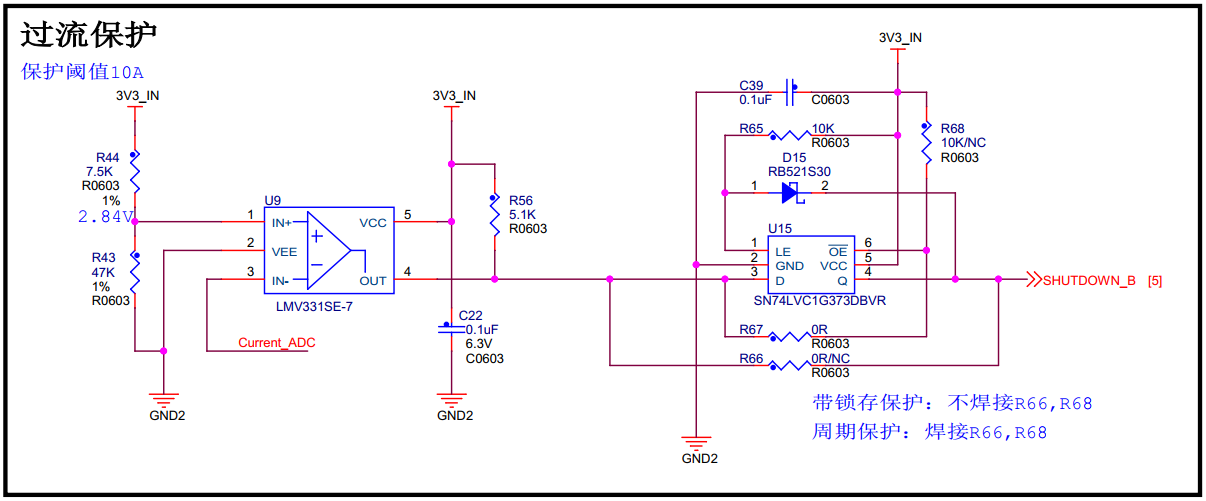
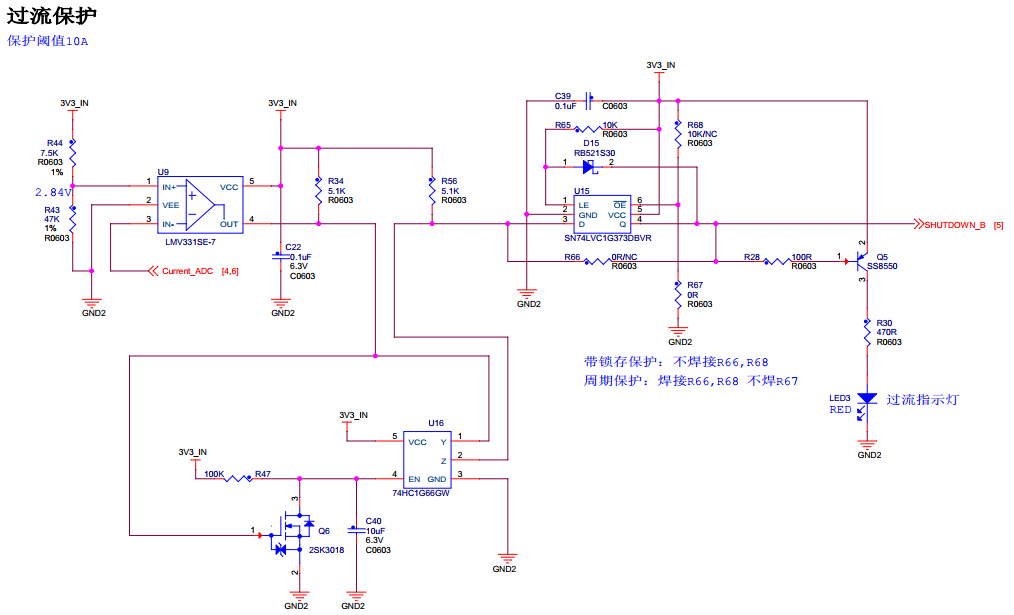
修改添加前言部分的一些内容，修改直流有刷电机介绍部分过流保护内容

diff --git a/zero_part/foreword.rst b/zero_part/foreword.rst
@@ -19,11 +19,55 @@
 PID参数怎样整定，步进电机的高级应用，这部分都会讲解，从而真正意义上的玩转电机应用。
 
 
-
-
 本书的参考资料
 --------------------------------------------
+野火《STM32 HAL库开发实战指南》
+
+ST-MCU《xxx参考手册》（各芯片）
+
+汤蕴璆《电机学》
+
+谭建成《永磁无刷直流电机技术》
+
+叶金虎《现代无刷直流永磁电动机的原理和设计》
+
+胡寿松《自动控制原理》
 
 本书的配套硬件
 --------------------------------------------
+本书配套开发板为野火F407骄阳电机开发板，本书的各项例程都是基于此款开发板，并搭配野火推出的电机驱动进行编写和适配（野火还推出了H743繁星电机开发板和F103拂晓电机开发板）。对于使用其它开发板进行学习的同学可以对本书的内容进行参考和借鉴。如果使用的是野火推出的开发板，我们已经完成了大部分电机程序的适配工作。
 
+下图为大家展示野火F407骄阳电机开发板的硬件资源：
+
+F407骄阳硬件资源
+
+.. image:: ../media/f407骄阳硬件资源.jpg
+   :align: center
+   :alt: image1
+   :name: f407骄阳硬件资源
+
+
+本书中使用到的其他配套硬件：
+
+野火步进电机驱动器
+
+.. image:: ../media/野火步进电机驱动.jpg
+   :align: center
+   :alt: image2
+   :name: 野火步进电机驱动
+
+野火直流有刷驱动板
+
+.. image:: ../media/野火直流有刷驱动板.jpg
+   :align: center
+   :alt: image3
+   :name: 野火直流有刷驱动板
+   
+野火直流无刷驱动板
+
+.. image:: ../media/yh_dc_brush_motor_mos_h.png
+   :align: center
+   :alt: 野火无刷电机驱动板
+   :name: 野火直流无刷驱动板
+
+对于配套的电机，根据大家的实际情况各取所需，这里就不为大家一一展示了。野火例程使用的各种实验配套的电机，可以在野火官方店铺与电机开发板一起购买到。

diff --git a/basis_part/brushed_current_vbus_gather.rst b/basis_part/brushed_current_vbus_gather.rst
@@ -56,7 +56,7 @@ R61与后面的电容组成RC滤波电路，R61上流过的电流很小，压降
 
 
 在下图中使用电压比较器LMV331SE实现10A过流保护电路，电流采样电路中V\ :sub:`i`\经过隔离运放和普通运放后变成V\ :sub:`current_adc`\输入到下图比较器的IN-，
-当IN-的电压超过IN+时比较器的OUT将输出低电平到锁存器中,锁存器对输入信号进行锁存并输出到与门。
+当IN-的电压超过IN+时，比较器的OUT将输出低电平到74HC1G66GW（模拟开关）的Y端口和左下端的NPN型MOS管中。当OUT将输出低电平时，NPN-MOS截止，此时3V3电压会供给74HC1G66GW，让其使能，这样模拟开关就会闭合，74HC1G66GW的Y端口与Z端口相当于连接在一起，低电平信号从Z端口，输出到下一级锁存器SN74LVC1G373DBVR，锁存器对输入信号进行锁存并输出到与门。
 
 .. image:: ../media/voltage_comparator.png
    :align: center
@@ -101,7 +101,7 @@ R61与后面的电容组成RC滤波电路，R61上流过的电流很小，压降
 如下图所示是电源电压采样电路，在电源电压上并联R18和R19的串联电阻，R19两端的电压作为隔离运放的输入，
 再经过隔离运放放大8倍后差分输出，使用普通运放将差分输出转换成单端输出，连接到STM32的ADC采样通道。
 隔离运放的输入电压为Vi，则有:Vi/R19=POWER/(R18+R59+R19)，带入电阻值可得：Vi=POWER/37，
-通过上一节中电流采样电流的计算方法可以计算得到POWER_ADC=POWER/37+1.24，不同的是，电压检测部分的隔离运放是没有放大的。
+通过上一节中电流采样电流的计算方法可以计算得到POWER_ADC=POWER/37+1.24，不同的是，电压检测部分的隔离器件是没有进行放大的。
 
 .. image:: ../media/有刷电源电压采集.png
    :align: center
